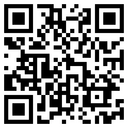
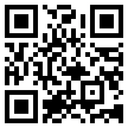
Rename to TINET

diff --git a/src/main.c b/src/main.c
@@ -1,9 +1,9 @@
 /*
  *--------------------------------------
- * Program Name: TI-84 Plus CE Net Client (Calculator)
+ * Program Name: TINET Client (Calculator)
  * Author: TKB Studios
  * License:
- * Description: Allows the user to communicate with the TI-84 Plus CE Net servers
+ * Description: Allows the user to communicate with the TINET servers
  *--------------------------------------
 */
 
@@ -32,7 +32,7 @@
 #include "gfx/gfx.h"
 
 /* DEFINE SETTINGS APPVAR */
-char *settingsappv = "TI84Sett";
+char *settingsappv = "NETSett";
 char *TEMP_PROGRAM = "_";
 char *MAIN_PROGRAM = "TINET";
 
@@ -178,7 +178,7 @@ int main(void)
 
     /* MAIN MENU */
     gfx_SetTextScale(2, 2);
-    gfx_PrintStringXY("TI-84 Plus CE Net", ((GFX_LCD_WIDTH - gfx_GetStringWidth("TI-84 Plus CE Net")) / 2), 5);
+    gfx_PrintStringXY("TINET", ((GFX_LCD_WIDTH - gfx_GetStringWidth("TINET")) / 2), 5);
     gfx_SetTextFGColor(224);
     gfx_PrintStringXY("Press [clear] to quit.", ((GFX_LCD_WIDTH - gfx_GetStringWidth("Press [clear] to quit.")) / 2), 35);
     gfx_SetTextFGColor(255);
@@ -383,7 +383,7 @@ void KeyFileAvailableGFX()
 void NoKeyFileGFX()
 {
     gfx_PrintStringXY("Please first add your keyfile!!", ((GFX_LCD_WIDTH - gfx_GetStringWidth("Please first add your keyfile!!")) / 2), 90);
-    gfx_PrintStringXY("https://ti84pluscenet.tkbstudios.tk/login", ((GFX_LCD_WIDTH - gfx_GetStringWidth("https://ti84pluscenet.tkbstudios.tk/login")) / 2), 100);
+    gfx_PrintStringXY("https://tinet.tkbstudios.tk/login", ((GFX_LCD_WIDTH - gfx_GetStringWidth("https://tinet.tkbstudios.tk/login")) / 2), 100);
     gfx_ScaledSprite_NoClip(login_qrcode_sprite, (GFX_LCD_WIDTH - login_qr_width * 4) / 2, 112, 4, 4);
 }
 

diff --git a/README.md b/README.md
@@ -1,14 +1,14 @@
-# TI-84 Plus CE Net Calculator client
-The official client for TI-84 Plus CE Net
+# TINET Calculator client
+The official client for TINET
 
-[![wakatime](https://wakatime.com/badge/github/tkbstudios/ti84pluscenet-calc.svg)](https://wakatime.com/badge/github/tkbstudios/ti84pluscenet-calc)
-[![Build and Release Master](https://github.com/tkbstudios/ti84pluscenet-calc/actions/workflows/build-release-master.yml/badge.svg)](https://github.com/tkbstudios/ti84pluscenet-calc/actions/workflows/build-release-master.yml)
-[![Build and Release](https://github.com/tkbstudios/ti84pluscenet-calc/actions/workflows/build-release-dev.yml/badge.svg)](https://github.com/tkbstudios/ti84pluscenet-calc/actions/workflows/build-release-dev.yml)
-[![Documentation Status](https://readthedocs.org/projects/ti84pluscenet-calc/badge/?version=latest)](https://ti84pluscenet-calc.readthedocs.io/en/latest/?badge=latest)
+[![wakatime](https://wakatime.com/badge/github/tkbstudios/tinet-calc.svg)](https://wakatime.com/badge/github/tkbstudios/tinet-calc)
+[![Build and Release Master](https://github.com/tkbstudios/tinet-calc/actions/workflows/build-release-master.yml/badge.svg)](https://github.com/tkbstudios/tinet-calc/actions/workflows/build-release-master.yml)
+[![Build and Release](https://github.com/tkbstudios/tinet-calc/actions/workflows/build-release-dev.yml/badge.svg)](https://github.com/tkbstudios/tinet-calc/actions/workflows/build-release-dev.yml)
+[![Documentation Status](https://readthedocs.org/projects/tinet-calc/badge/?version=latest)](https://tinet-calc.readthedocs.io/en/latest/?badge=latest)
 
 ## How to use
-1. Download the [latest client](https://github.com/tkbstudios/ti84pluscenet-calc/releases/latest).  
-2. Go to the [Web Dashboard](https://ti84pluscenet.tkbstudios.tk/)  
+1. Download the [latest client](https://github.com/tkbstudios/tinet-calc/releases/latest).  
+2. Go to the [Web Dashboard](https://tinet.tkbstudios.tk/)  
 3. Register or login an account.  
 4. On the dashboard, download your keyfile.  
 ![Download KeyFile Image](images/docs/downloadkeyfile.png)
@@ -23,6 +23,6 @@ The official client for TI-84 Plus CE Net
 ## What to do if it doesn't work
 If you came across this screen:  
 ![KeyFile Not Detected Image](images/docs/calcKeyFileNotDetected.png)  
-Then re-download your Keyfile from the [Web Dashboard](https://ti84pluscenet.tkbstudios.tk/) like explained above in step 4.  
-If after re-uploading your KeyFile, you still don't see the following screen, then open an issue [here](https://github.com/tkbstudios/ti84pluscenet-calc/issues).  
+Then re-download your Keyfile from the [Web Dashboard](https://tinet.tkbstudios.tk/) like explained above in step 4.  
+If after re-uploading your KeyFile, you still don't see the following screen, then open an issue [here](https://github.com/tkbstudios/tinet-calc/issues).  
 ![KeyFile Detected Image](images/docs/calcKeyFileDetected.png)  
